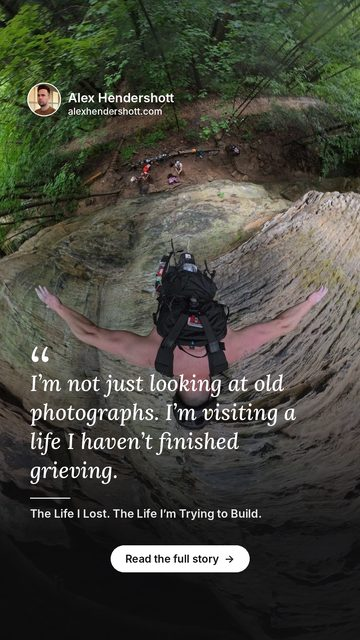
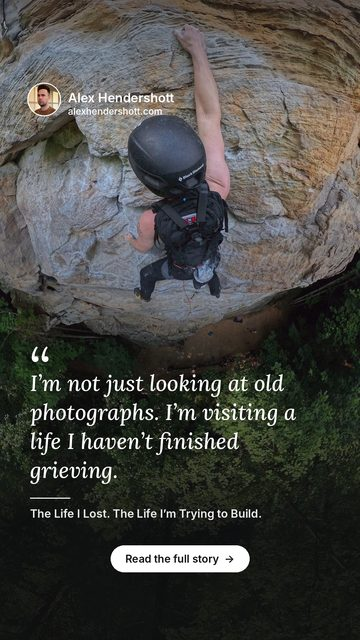
Swap climbing story card photo
Claude-Session: https://claude.ai/code/session_015C9y3mTQC3dybEvMfDzZQP

diff --git a/posts/the-life-i-lost.html b/posts/the-life-i-lost.html
@@ -129,7 +129,7 @@
 <div class="story-cards">
 <button type="button" data-img="/images/the-life-i-lost/story-1.jpg"><img src="/images/the-life-i-lost/story-1-t.jpg" alt="Story card: Cleveland sunset with a quote" loading="lazy"></button>
 <button type="button" data-img="/images/the-life-i-lost/story-2.jpg"><img src="/images/the-life-i-lost/story-2-t.jpg" alt="Story card: Hamlin with a quote" loading="lazy"></button>
-<button type="button" data-img="/images/the-life-i-lost/story-3.jpg"><img src="/images/the-life-i-lost/story-3-t.jpg" alt="Story card: climbing with a quote" loading="lazy"></button>
+<button type="button" data-img="/images/the-life-i-lost/story-3.jpg?v=2"><img src="/images/the-life-i-lost/story-3-t.jpg?v=2" alt="Story card: climbing with a quote" loading="lazy"></button>
 </div>
 </section>
 <a class="ig" href="https://www.instagram.com/alexhendershott/" rel="noopener"><span><small>Follow along on Instagram</small><b>@alexhendershott</b></span><span class="arr" aria-hidden="true">&rarr;</span></a>

diff --git a/share.js b/share.js
@@ -5,7 +5,7 @@ var note=document.querySelector(".story-note");
 function msg(t){if(note)note.textContent=t;}
 btns.forEach(function(b){
   b.addEventListener("click",async function(){
-    var url=b.dataset.img,name=url.split("/").pop();
+    var url=b.dataset.img,name=url.split("/").pop().split("?")[0];
     try{
       var blob=await (await fetch(url)).blob();
       var file=new File([blob],name,{type:"image/jpeg"});
